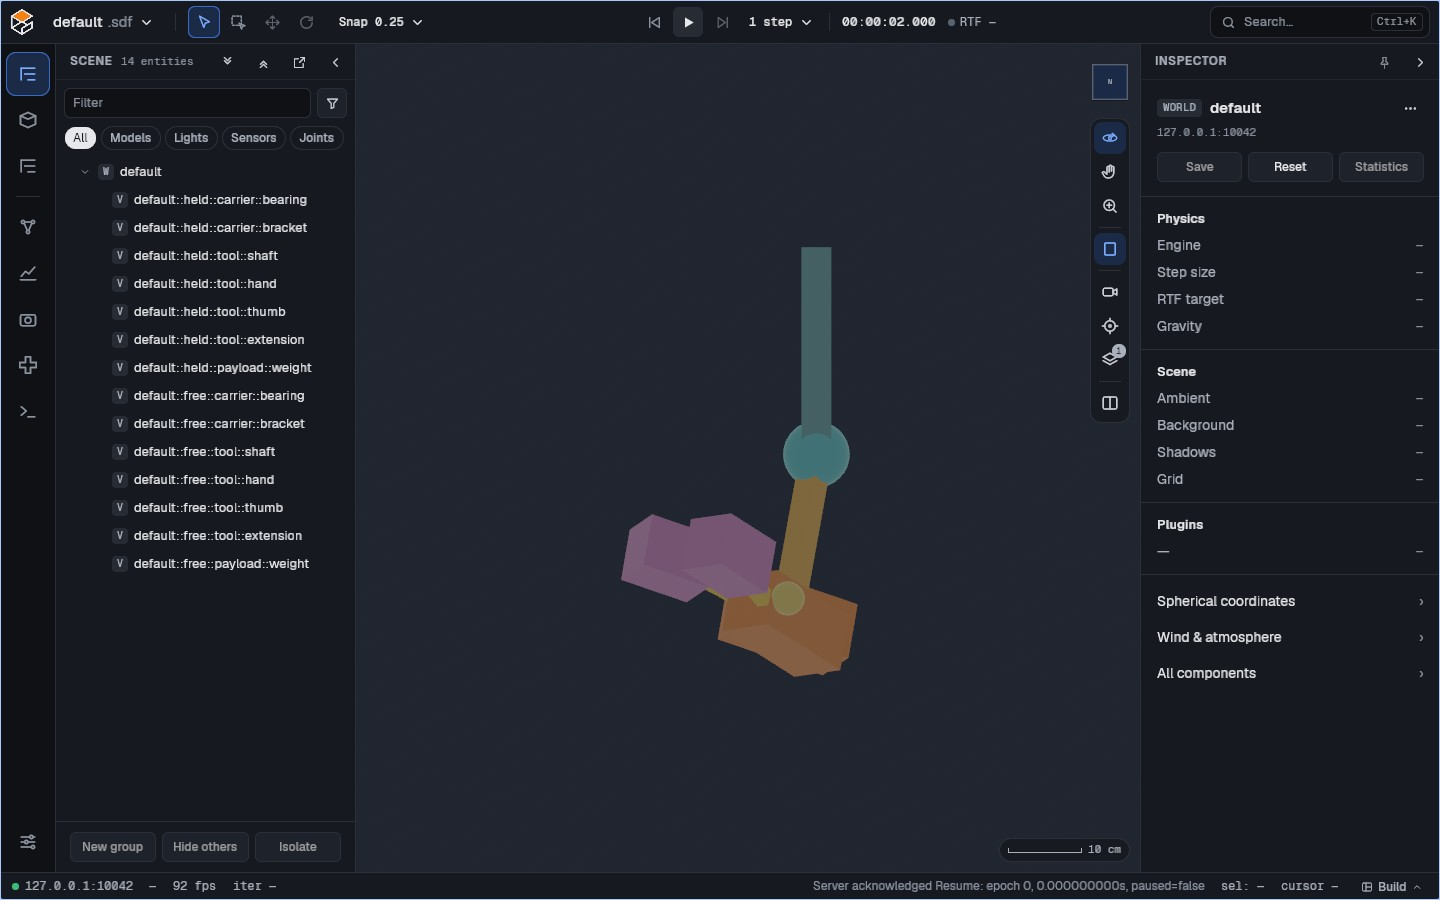
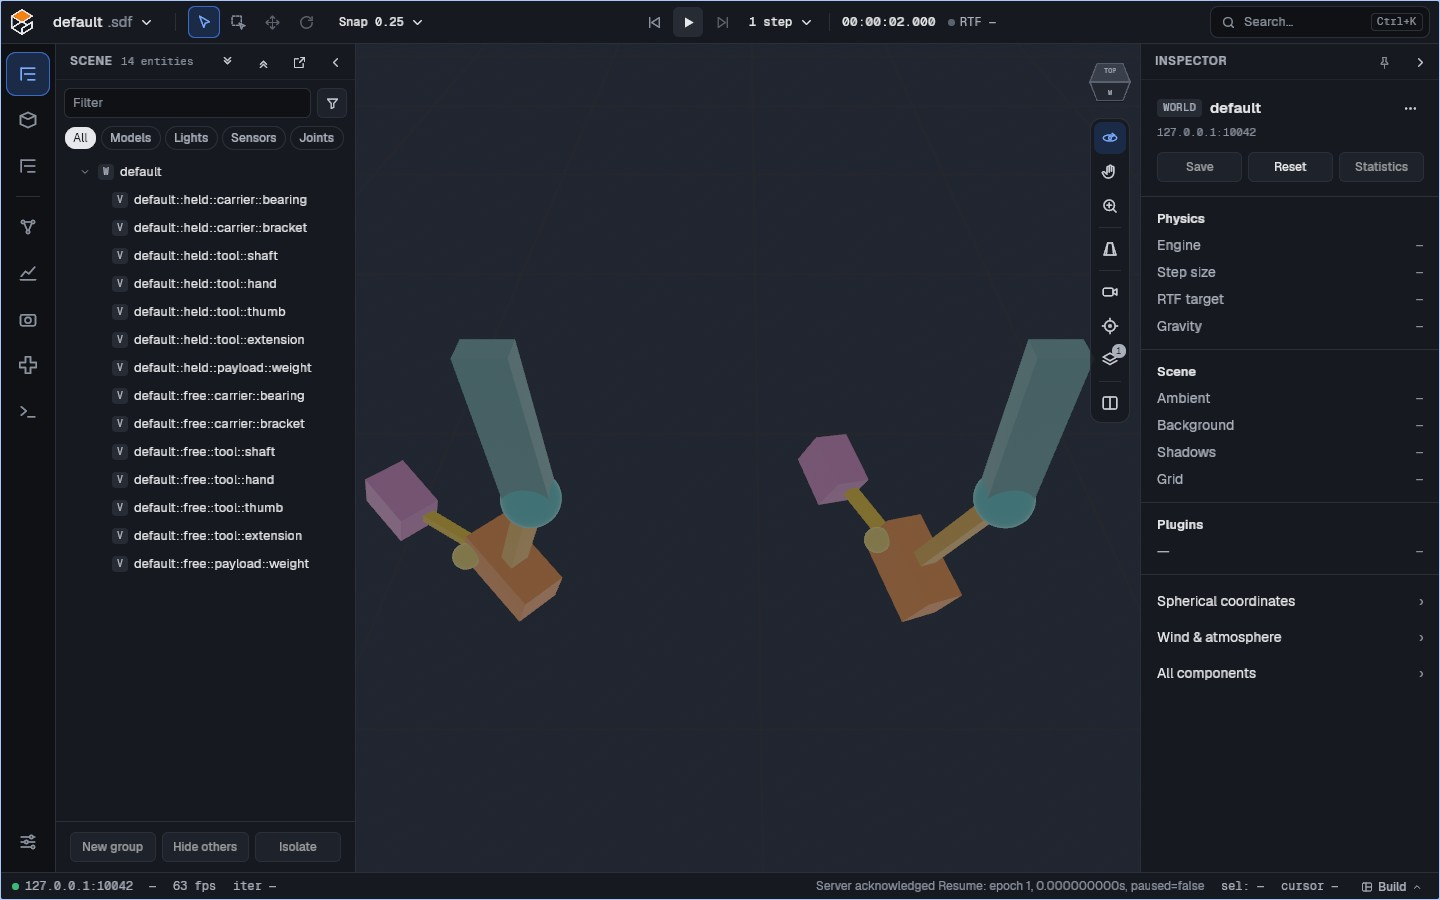
Show both comparison wrists side by side in verified native captures

diff --git a/crates/gz-sim-cli/examples/gravity_wrist/inertia.rs b/crates/gz-sim-cli/examples/gravity_wrist/inertia.rs
@@ -292,7 +292,7 @@ pub(super) fn record(out: &Path, stabilize: bool, substeps: u8) -> Result<()> {
         ("trace.json", serde_json::to_value(first)?),
         (
             "frames.json",
-            json!({"kind":"authored-archive-v1","dt_ns":1,"camera":"right","captures":captures}),
+            json!({"kind":"authored-archive-v1","dt_ns":1,"camera":"perspective","captures":captures}),
         ),
     ] {
         fs::write(out.join(name), serde_json::to_vec_pretty(&value)?)?;
